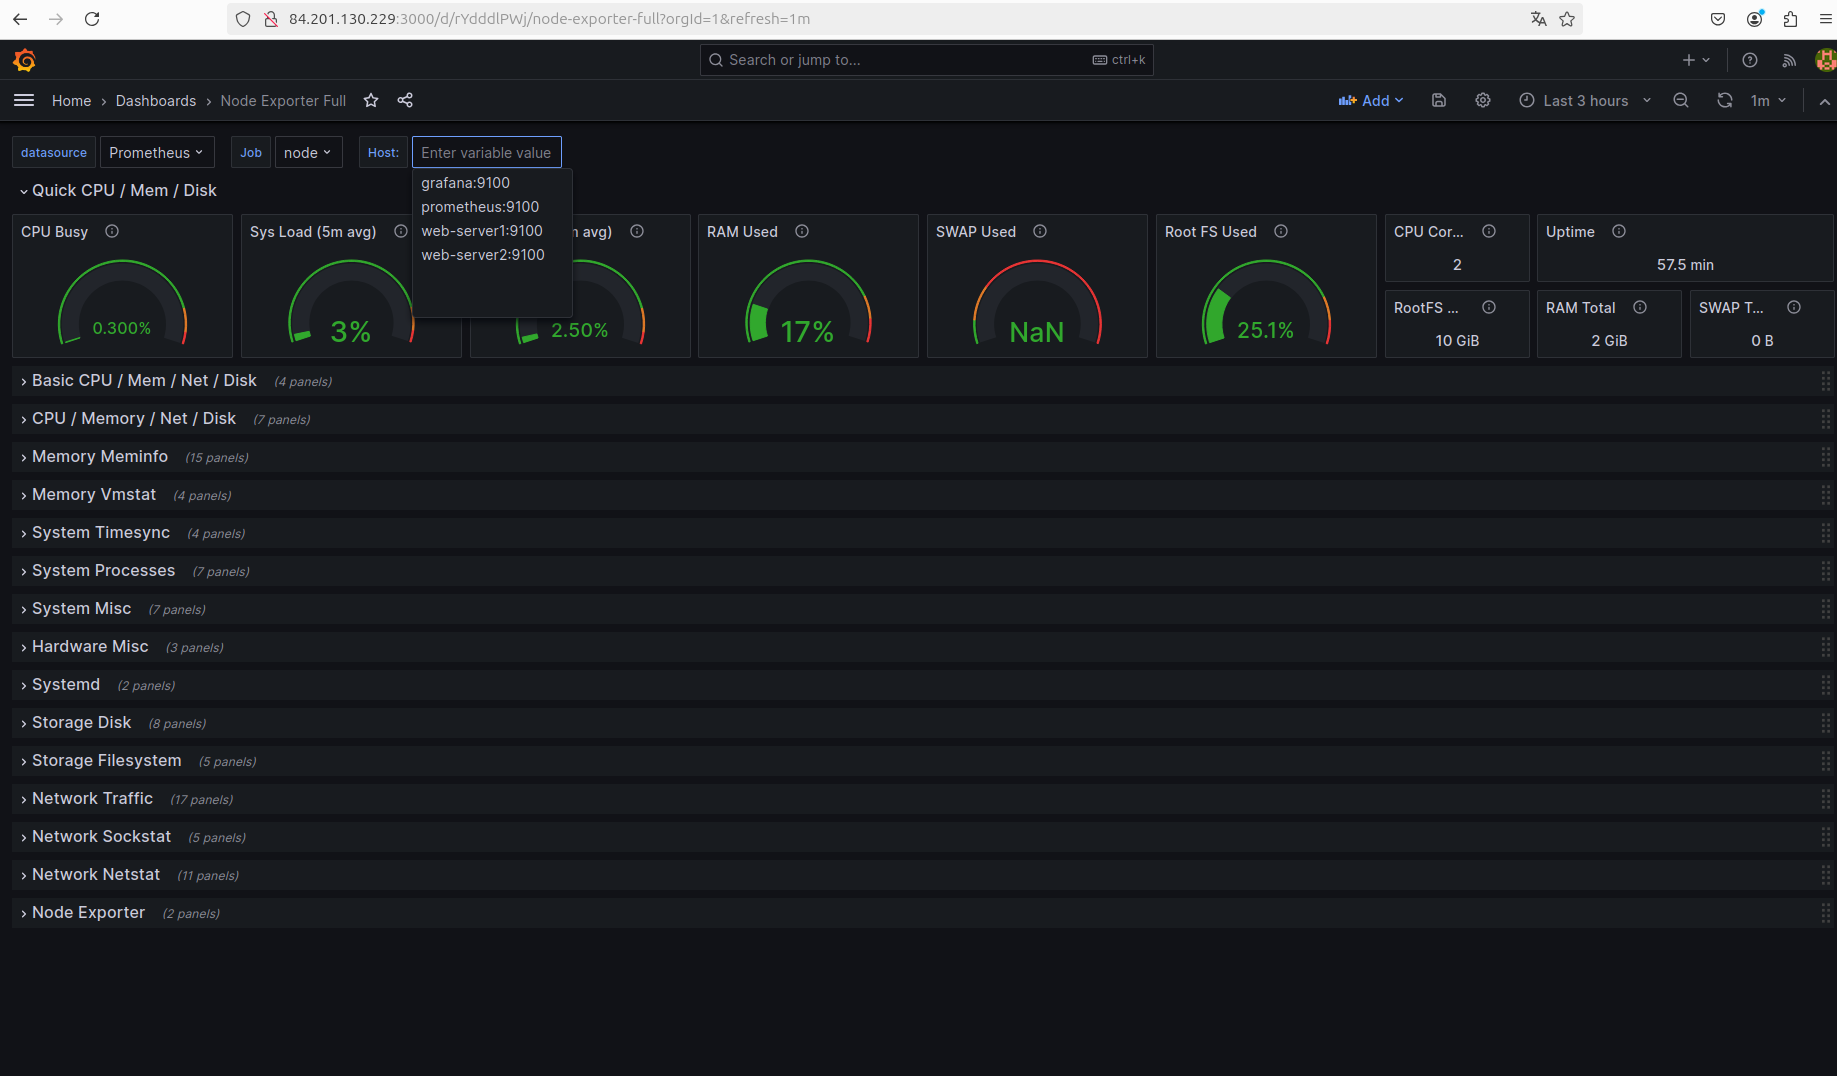
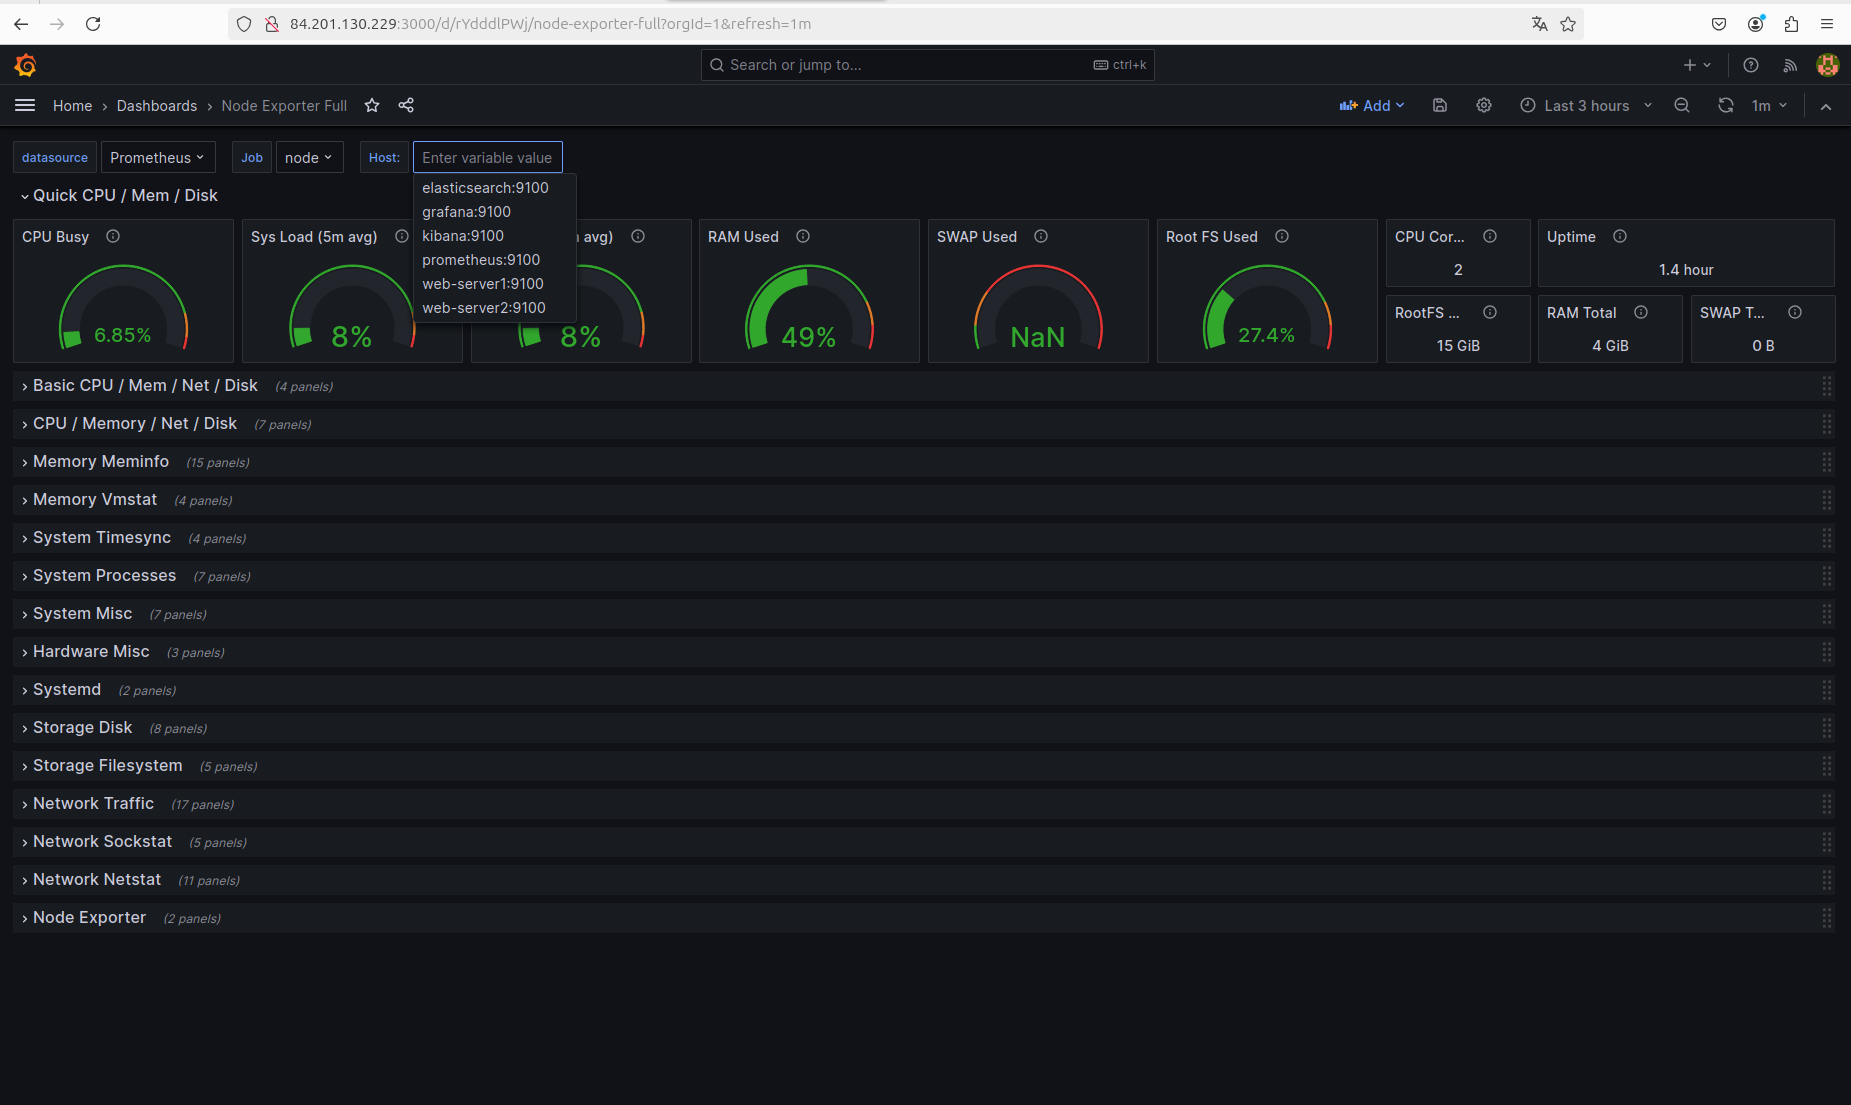
Logs

diff --git a/README.md b/README.md
@@ -112,3 +112,33 @@ ansible-playbook main.yml -t grafana
 ---
 
 ### Логи
+
+[Поднятие системы логирования](./ansible/playbooks/log-playbook.yml) (обязательно нужно проверить, что контейнеры поднялись. Возможна ошибка при установке пакетов для docker, прокатываем роль ещё раз)
+
+```sh
+ansible-playbook main.yml -t elasticsearch
+```
+
+![22](./other/screenshots/22.png)
+![23](./other/screenshots/23.png)
+![24](./other/screenshots/24.png)
+![25](./other/screenshots/25.png)
+![26](./other/screenshots/26.png)
+
+[Поднятие filebeat](./ansible/playbooks/log-filebeat-playbook.yml)
+
+```sh
+ansible-playbook main.yml -t filebeat
+```
+
+![27](./other/screenshots/27.png)
+![28](./other/screenshots/28.png)
+
+Проверяем Kibana на наличие логов из Nginx
+
+![29](./other/screenshots/29.png)
+![30](./other/screenshots/30.png)
+
+---
+
+### Сеть
